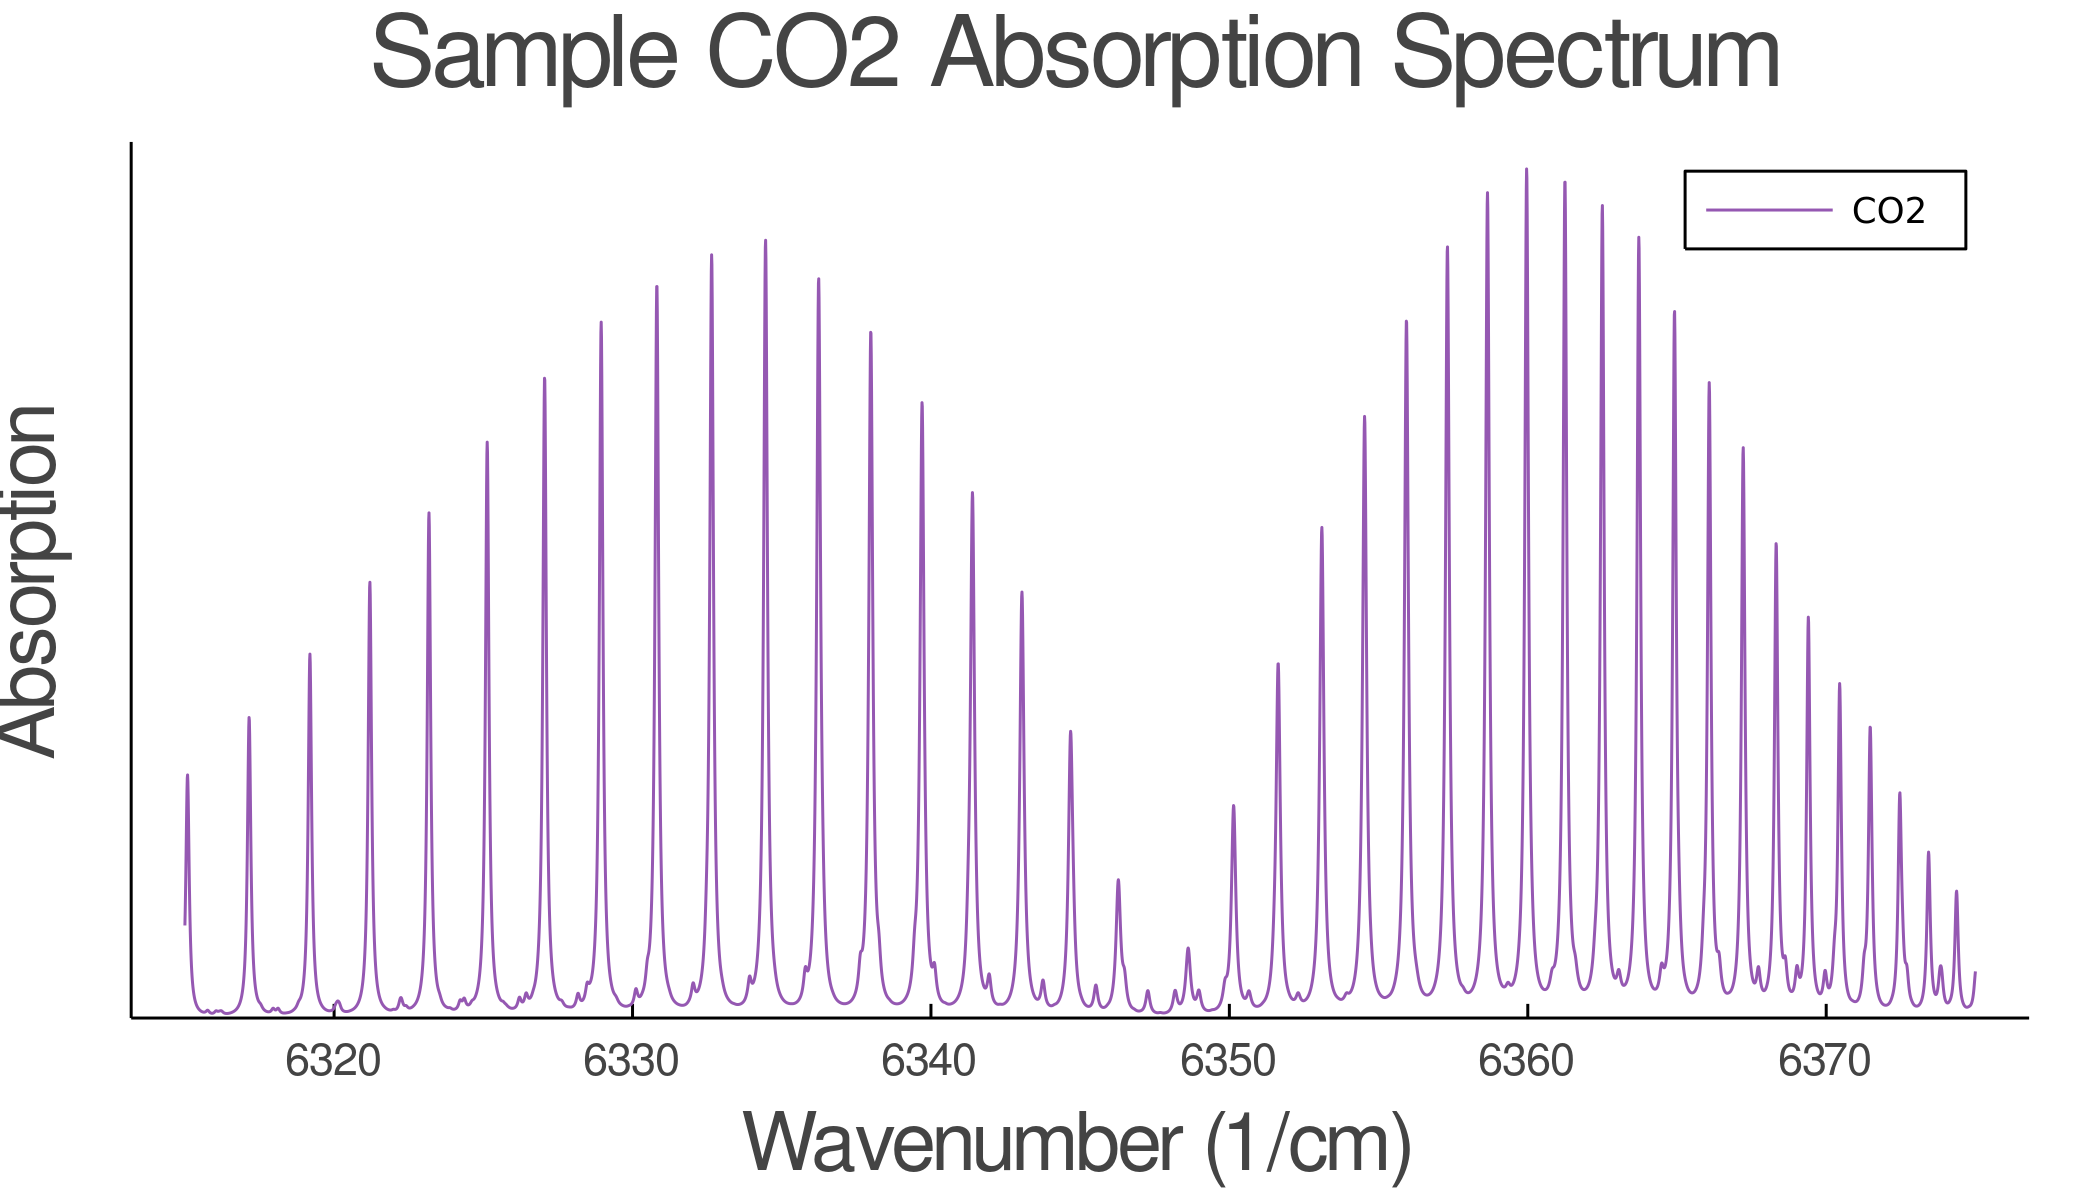
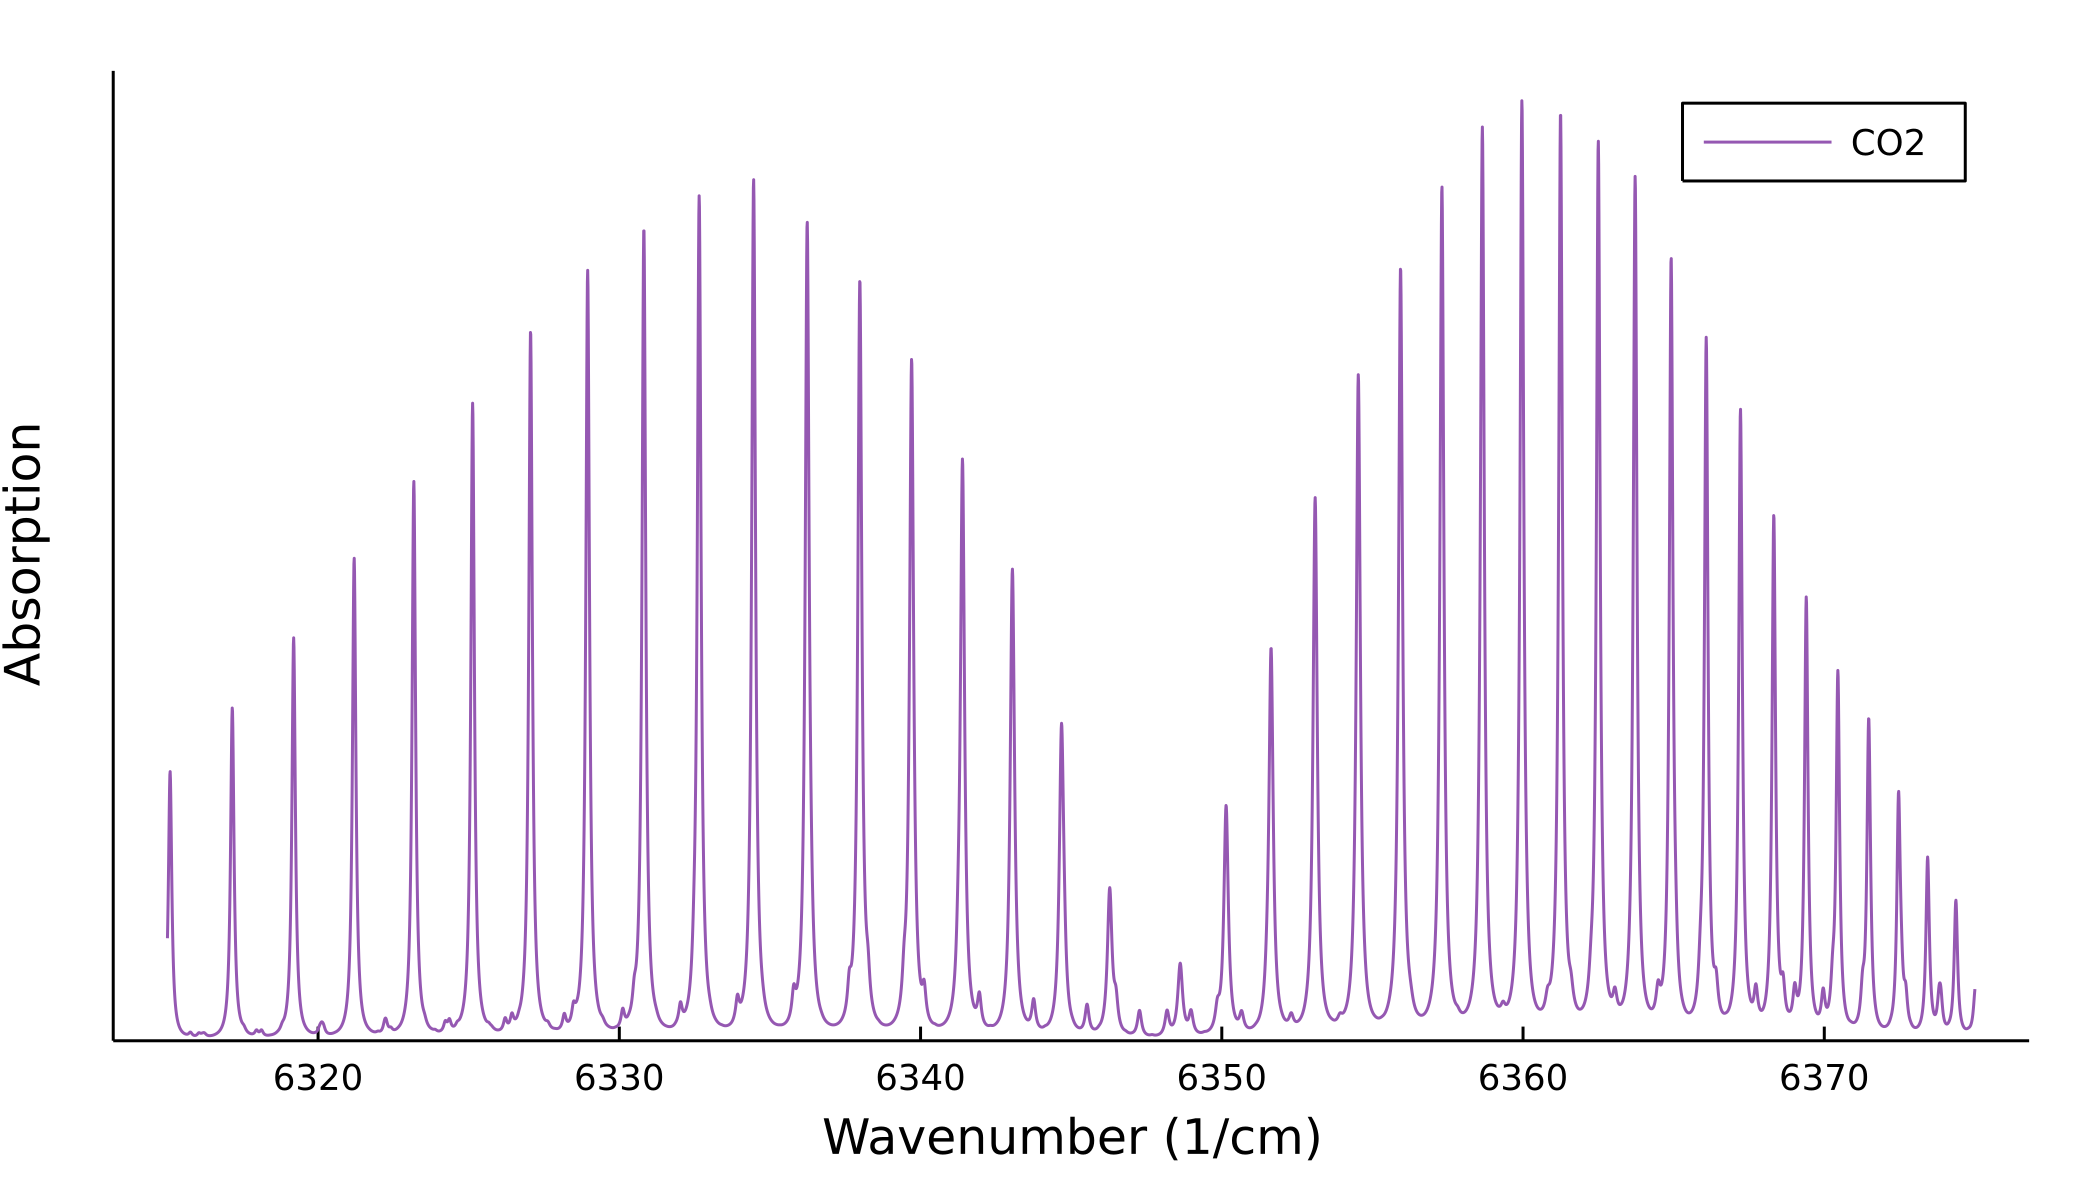
Modify chart fonts

Changed region(s): [[0.0619, 0.0, 0.9595, 0.9867], [0.0, 0.3392, 0.031, 0.6475]]

diff --git a/paper.md b/paper.md
@@ -44,7 +44,7 @@ Rather than simply *porting* these codes to a new language, **RadiativeTransfer.
 
 The package has a modular architecture, allowing users to import just the specific module(s) that they need.
 
-![Sample atmospheric reflectance, calculated using RadiativeTransfer.jl](joss_1.png)
+![Sample atmospheric reflectance under default atmospheric parameters, calculated using RadiativeTransfer.jl](joss_1.png)
 
 **RadiativeTransfer.jl** is the top-level module that uses absorption and scattering submodules to compute RT simulations. Specifically, it: 
 - Enables 1D vectorized plane-parallel RT modeling based on the Matrix Operator Method (`@Sanghavi:2013`)
@@ -52,11 +52,11 @@ The package has a modular architecture, allowing users to import just the specif
 - Enables GPU-accelerated computations of the resulting hyperspectral reflectances/transmittances
 - Enables auto-differentiation of the output spectrum with respect to various input parameters
 
-![Sample absorption spectrum of CO2, calculated using Absorption.jl](joss_2.png)
+![Sample absorption spectrum of CO2 with 0.01 step size resolution, calculated using Absorption.jl](joss_2.png)
 
 **Absorption.jl** enables absorption cross-section calculations of atmospheric gases at different pressures, temperatures, wavelengths, and broadeners (Doppler, Lorentzian, Voigt). It uses the HITRAN (`@Gordon:2017`) energy transition database for calculations. While it enables lineshape calculations from scratch, the module also allows users to create and save an interpolator object at specified wavelength, pressure, and temperature grids. The module also supports auto-differentiation (AD) of the profile, with respect to pressure and temperature. Calculations can be computed either on CPU or GPU (CUDA).
 
-![Sample scattering phase functions of aerosols, calculated using Scattering.jl](joss_3.png)
+![Sample scattering phase functions of aerosols, calculated using Scattering.jl (μ = 0.3 , σ = 2.0, nᵣ = 1.3, nᵢ = 0.0, λ = 0.40 μm)](joss_3.png)
 
 **Scattering.jl** is used for calculating Mie scattering phase-functions for aerosols with specified size distributions and refractive indices. This module enables scattering phase-function calculation of atmospheric aerosols with different size distributions, incident wavelengths, and refractive indices. It can perform the calculation using either the Siewert NAI-2 or Domke PCW methods (`@Sanghavi:2017`). The module also supports auto-differentiation (AD) of the phase function, with respect to the aerosol's size distribution parameters and its refractive index. 
 
